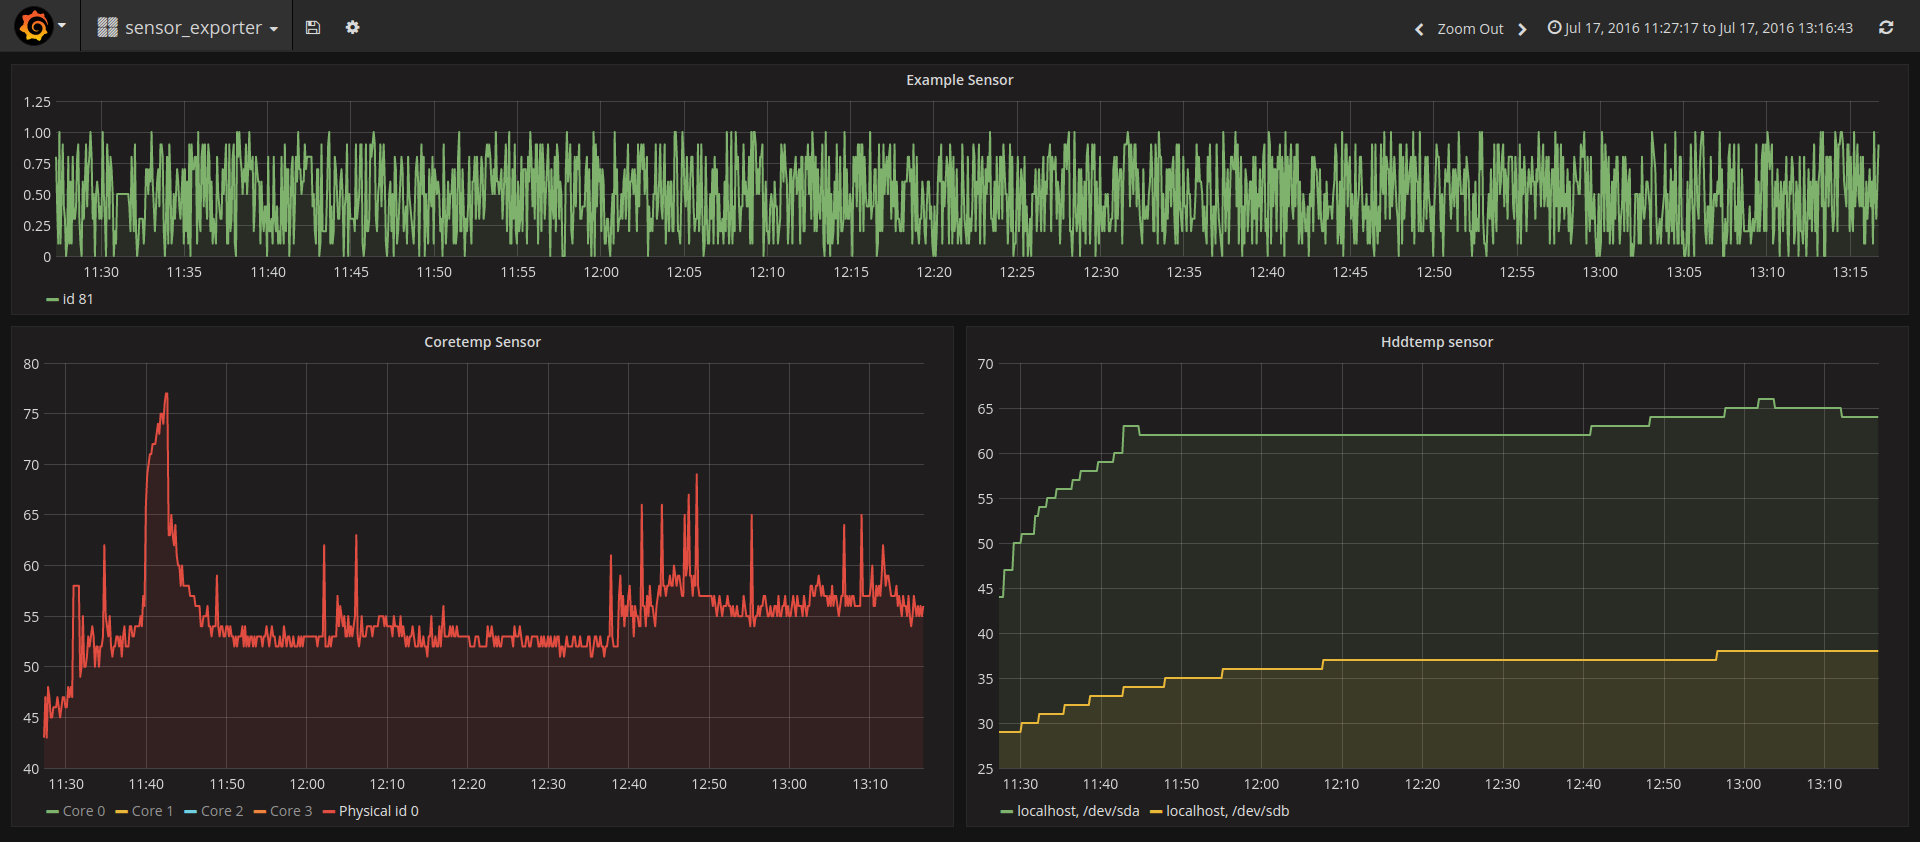
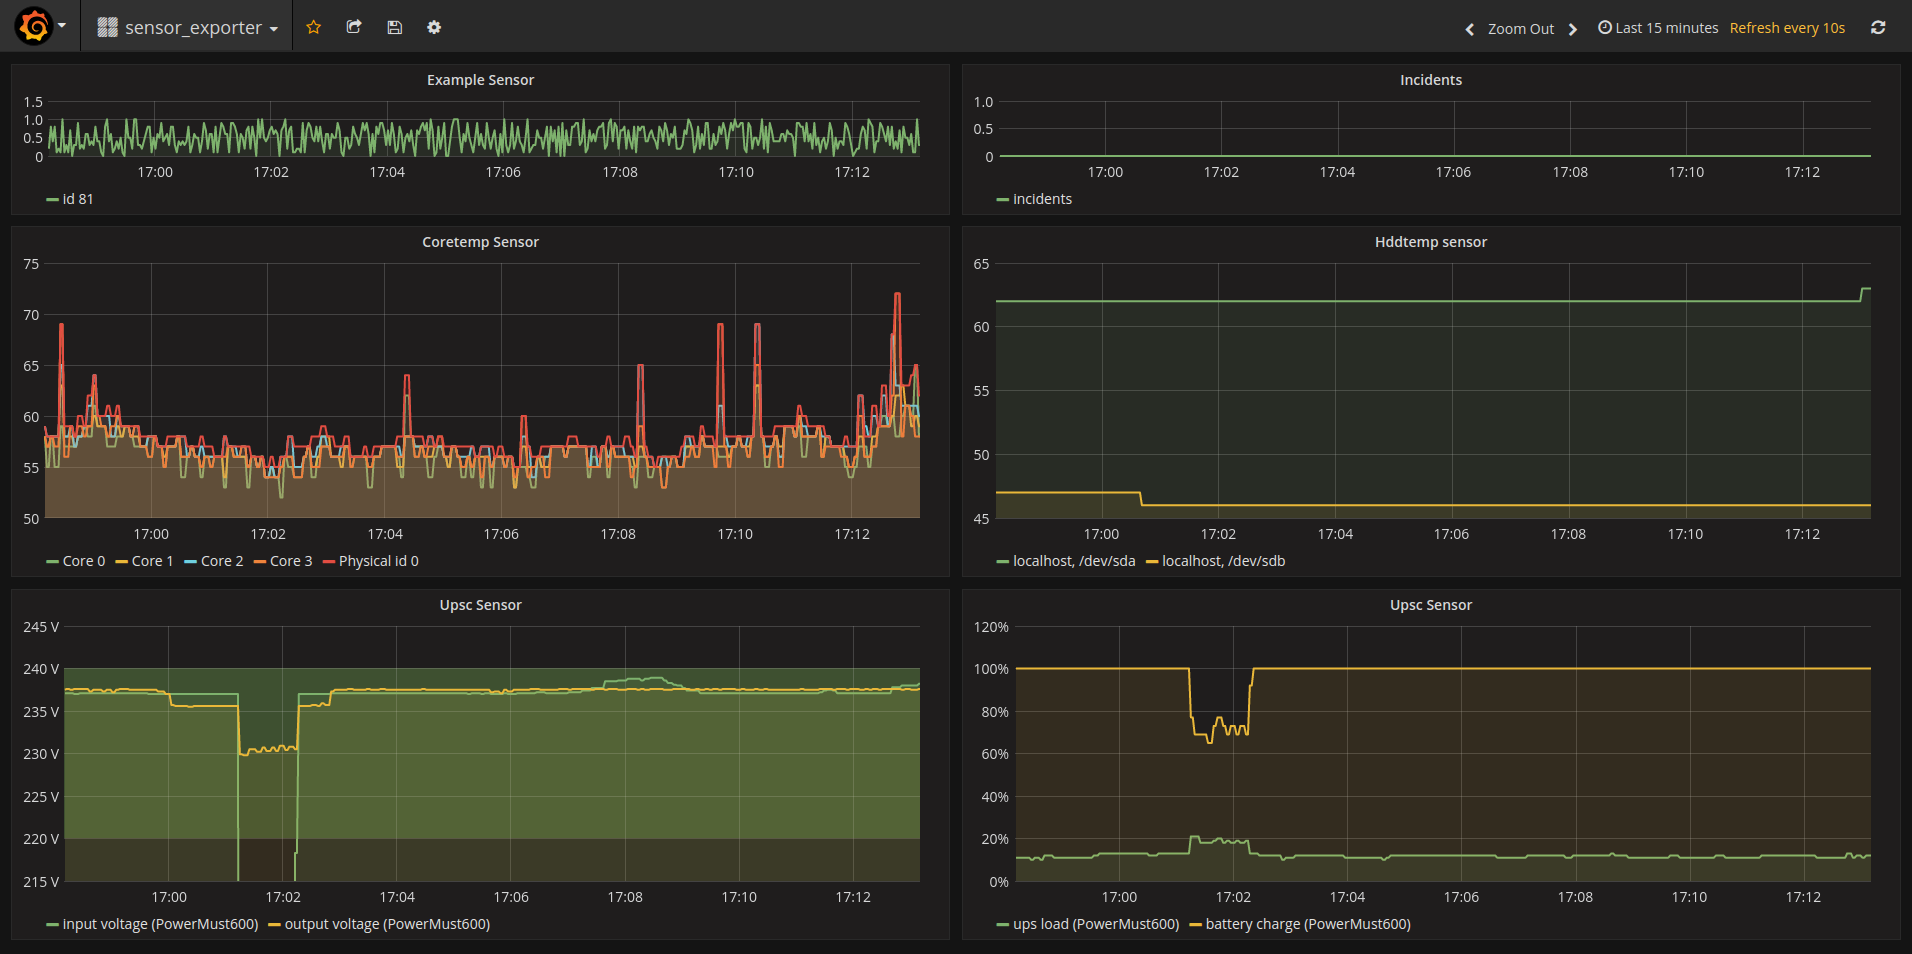
Add upsc sensor. Log hddtemp connection issues as incidents. Add more info and screenshot to readme.

diff --git a/sensor_upsc/main.go b/sensor_upsc/main.go
@@ -1,0 +1,200 @@
+//
+// Copyright 2016 Marios Andreopoulos
+//
+// This program is free software: you can redistribute it and/or modify
+// it under the terms of the GNU General Public License as published by
+// the Free Software Foundation, either version 3 of the License, or
+// (at your option) any later version.
+
+// This program is distributed in the hope that it will be useful,
+// but WITHOUT ANY WARRANTY; without even the implied warranty of
+// MERCHANTABILITY or FITNESS FOR A PARTICULAR PURPOSE.  See the
+// GNU General Public License for more details.
+
+// You should have received a copy of the GNU General Public License
+// along with this program.  If not, see <http://www.gnu.org/licenses/>.
+//
+
+/*
+Package sensor_upsc implements a sensor that uses upsd to get information from
+a UPS. It is pretty basic. To add a UPS start sensor_exporter like:
+
+    sensor_exporter uspc,,UPS@HOST
+
+For localhost, HOST may be ommited.
+
+Currently only a few values are reported since I care only about my UPS.
+If you are interested to support more values, sumbit a pull request. It is
+an easy job, just add entries to upscVarFloat, sensorsType, sensorsHelp. ;)
+
+You can consult the UPSC manual for available readings and their description:
+http://networkupstools.org/docs/user-manual.chunked/apcs01.html
+
+Of interest is also the network protocol:
+http://networkupstools.org/docs/developer-guide.chunked/ar01s09.html#_command_reference
+*/
+package sensor_upsc
+
+import (
+	"bufio"
+	"errors"
+	"fmt"
+	"log"
+	"net"
+	"regexp"
+	"strconv"
+	"strings"
+	"time"
+
+	"github.com/andmarios/sensor_exporter/sensor"
+)
+
+var suggestedScrapeInterval = time.Duration(10 * time.Second)
+var description = `Upsc is a sensor that uses the upsc program to get information from a UPS.
+To use it with the suggested scrape interval (HOST may be ommitted for
+localhost):
+
+  sensor_exporter upsc,,UPS@HOST`
+var timeOut = 10 * time.Second
+
+type Sensor struct {
+	Labels     string
+	Host       string
+	Ups        string
+	Re         *regexp.Regexp
+	BeginToken string
+	EndToken   string
+}
+
+// Strings that are used to detect readings from upsd responses. If you add an
+// entry to upscVarFloat and your UPS returns this value, the sensor will
+// expose it. Please also add a TYPE and HELP entry.
+var (
+	upscVarFloat = map[string]string{
+		"battery.charge":  "upsc_battery_charge",
+		"battery.voltage": "upsc_battery_voltage",
+		"input.frequency": "upsc_input_frequency",
+		"input.voltage":   "upsc_input_voltage",
+		"input.current":   "upsc_input_current",
+		"output.voltage":  "upsc_output_voltage",
+		"ups.load":        "upsc_ups_load",
+		"ups.temperature": "upsc_ups_temperature",
+	}
+	sensorsType = []string{
+		"# TYPE upsc_battery_charge gauge",
+		"# TYPE upsc_battery_voltage gauge",
+		"# TYPE upsc_input_frequency gauge",
+		"# TYPE upsc_input_voltage gauge",
+		"# TYPE upsc_input_current gauge",
+		"# TYPE upsc_output_voltage gauge",
+		"# TYPE upsc_ups_load gauge",
+		"# TYPE upsc_ups_temperature gauge",
+	}
+	sensorsHelp = []string{
+		"# HELP upsc_battery_charge gauge Battery charge (percent)",
+		"# HELP upsc_battery_voltage Battery voltage (V)",
+		"# HELP upsc_input_frequency Input line frequency (Hz)",
+		"# HELP upsc_input_voltage Input voltage (V)",
+		"# HELP upsc_input_current Input current (A)",
+		"# HELP upsc_output_voltage Output voltage (V)",
+		"# HELP upsc_ups_load Load on UPS (percent)",
+		"# HELP upsc_ups_temperature UPS temperature (degrees C)",
+	}
+)
+
+func NewSensor(opts string) (sensor.Collector, error) {
+	conf := strings.Split(opts, `@`)
+	var labels, host, ups string
+	switch len(conf) {
+	case 2:
+		ups = conf[0]
+		host = conf[1]
+		hostParts := strings.Split(host, `:`) // Do not use port in label
+		if len(hostParts) == 1 {              // set default port if needed
+			host += ":3493"
+		}
+		labels = fmt.Sprintf("{ups=\"%s\",host=\"%s\"}", ups, hostParts[0])
+	case 1:
+		labels = fmt.Sprintf("{ups=\"%s\"}", conf[0])
+		host = "localhost:3493"
+	default:
+		return nil, errors.New("Upsc, could not understand UPS URI. Empty or too many '@'?. Opts: " + opts)
+	}
+	// Output is like: VAR UPS ups.load "14"
+	reString := "VAR " + ups + " ([a-zA-Z.]*) \"(.*)\""
+	re, err := regexp.Compile(reString)
+	if err != nil {
+		return nil, errors.New("Upsc, could not compile regural expression: " + reString + ". Err: " + err.Error())
+	}
+	conn, err := net.DialTimeout("tcp", host, timeOut)
+	if err != nil {
+		log.Printf("Adding upsc sensor at %s but could not connect to remote.\n", host)
+	} else {
+		defer conn.Close()
+	}
+	s := Sensor{Labels: labels, Host: host, Ups: ups, Re: re,
+		BeginToken: "BEGIN LIST VAR " + ups + "\n", EndToken: "END LIST VAR " + ups + "\n"}
+	return s, nil
+}
+
+func (s Sensor) Scrape() (out string, e error) {
+	conn, err := net.DialTimeout("tcp", s.Host, timeOut)
+	if err != nil {
+		sensor.Incident()
+		log.Printf("Upsc %s@%s, failed to connect: %s\n", s.Ups, s.Host, err.Error())
+		return "", nil
+	}
+	defer conn.Close()
+	fmt.Fprintf(conn, "LIST VAR "+s.Ups+"\n")
+	reader := bufio.NewReader(conn)
+
+	res, err := reader.ReadString('\n')
+	if err != nil {
+		sensor.Incident()
+		log.Printf("Upsc %s@%s, reading returned error: %s\n", s.Ups, s.Host, err.Error())
+		return "", nil
+	}
+	if res == "ERR UNKNOWN-UPS" {
+		sensor.Incident()
+		log.Printf("Upsc %s@%s, upsd daemon said \"unknown ups\".\n", s.Ups, s.Host)
+		return "", nil
+	} else if res != s.BeginToken {
+		sensor.Incident()
+		log.Printf("Upsc %s@%s, upsd daemon returned unknown response: %s.\n", s.Ups, s.Host, res)
+		return "", nil
+	}
+
+	var v []string
+	for {
+		res, err = reader.ReadString('\n')
+		//		fmt.Println(res)
+		if err != nil {
+			sensor.Incident()
+			log.Printf("Upsc %s@%s, connection error while reading: %s\n", s.Ups, s.Host, err.Error())
+			return "", nil
+		}
+		v = s.Re.FindStringSubmatch(res)
+		if len(v) == 3 {
+			if value, exists := upscVarFloat[v[1]]; exists {
+				reading, err := strconv.ParseFloat(v[2], 64)
+				if err != nil {
+					sensor.Incident()
+					log.Printf("Upsc %s@%s, could not parse %s. Error: %s\n", s.Ups, s.Host, v[1], err.Error())
+					break
+				}
+				out += fmt.Sprintf("%s%s %.2f\n", value, s.Labels, reading)
+			}
+		}
+
+		if res == s.EndToken {
+			break
+		}
+	}
+
+	return out, nil
+}
+
+func init() {
+	sensor.RegisterCollector("upsc", NewSensor, suggestedScrapeInterval,
+		sensorsType, sensorsHelp, description)
+}

diff --git a/sensor_hddtemp/main.go b/sensor_hddtemp/main.go
@@ -46,7 +46,7 @@ var description = `Hddtemp reads and exposes disk temperatures from a hddtemp da
 is the URL of the daemon. Example setup with default scrape interval:
 
   sensor_exporter hddtemp,,localhost:7634`
-var timeOut = 5 * time.Second
+var timeOut = 3 * time.Second
 var re = regexp.MustCompile(`(\|[^\|]*){3,3}\|[CF*]`)
 
 type Sensor struct {
@@ -76,7 +76,8 @@ var (
 func (s Sensor) Scrape() (out string, e error) {
 	conn, err := net.DialTimeout("tcp", s.Url, timeOut)
 	if err != nil {
-		// return "", errors.New("Hddtemp: Failed to connect to remote " + s.Url)
+		sensor.Incident()
+		log.Printf("Hddtemp @ %s, failed to connect: %s\n", s.Url, err.Error())
 		return "", nil
 	}
 	defer conn.Close()

diff --git a/main.go b/main.go
@@ -32,6 +32,7 @@ import (
 	_ "github.com/andmarios/sensor_exporter/sensor_example"
 	_ "github.com/andmarios/sensor_exporter/sensor_hddtemp"
 	_ "github.com/andmarios/sensor_exporter/sensor_log"
+	_ "github.com/andmarios/sensor_exporter/sensor_upsc"
 )
 
 type Scraper struct {

diff --git a/README.md b/README.md
@@ -6,8 +6,9 @@ It is still work in progress.
 
 ## For end users
 
-`sensor_exporter` currently supports Linux coretemp drivers exposed under `/sys`
-and hddtemp in TCP/IP daemon mode. To run with both:
+`sensor_exporter` currently supports Linux coretemp drivers exposed under
+`/sys`, hddtemp in TCP/IP daemon mode and NUT's upsd daemon. To run with
+coretemp and hddtemp:
 
     go get github.com/andmarios/sensor_exporter
 	sensor_exporter coretemp hddtemp,,localhost:7634
@@ -15,6 +16,8 @@ and hddtemp in TCP/IP daemon mode. To run with both:
 To list available sensors:
 
     sensor_exporter -list-sensors
+
+![grafana screenshot](https://raw.githubusercontent.com/andmarios/sensor_exporter/master/grafana.png)
 
 ## For developers
 
@@ -25,6 +28,21 @@ You can easily add your own sensor, please have a look at
 or an error. An error will lead to `sensor_exporter` stopping, so if you feel a
 failed scrape shouldn't be catastrophic, log it and return an empty string
 instead.
+
+## Motivation
+
+I wanted to expose my CPU's temperatures to prometheus and grafana. The basic
+coretemp reading work existed on my [i7tt](https://github.com/andmarios/i7tt),
+so I only needed to convert it for prometheus.
+
+I started with the excellent prometheus' golang_client lib, alas it is targeted
+for application instrumentation, thus it exposed 37 metrics for the exporter.
+My metrics were only 3 or 5, so it seemed like a waste to store 40 - 42 metrics
+just for this.
+
+I started simple, by exposing only the coretemp. Then I added the hddtemp and
+then thought there are many sensors I would like to expose at some time, thus
+I build this small framework.
 
 ## License
 
